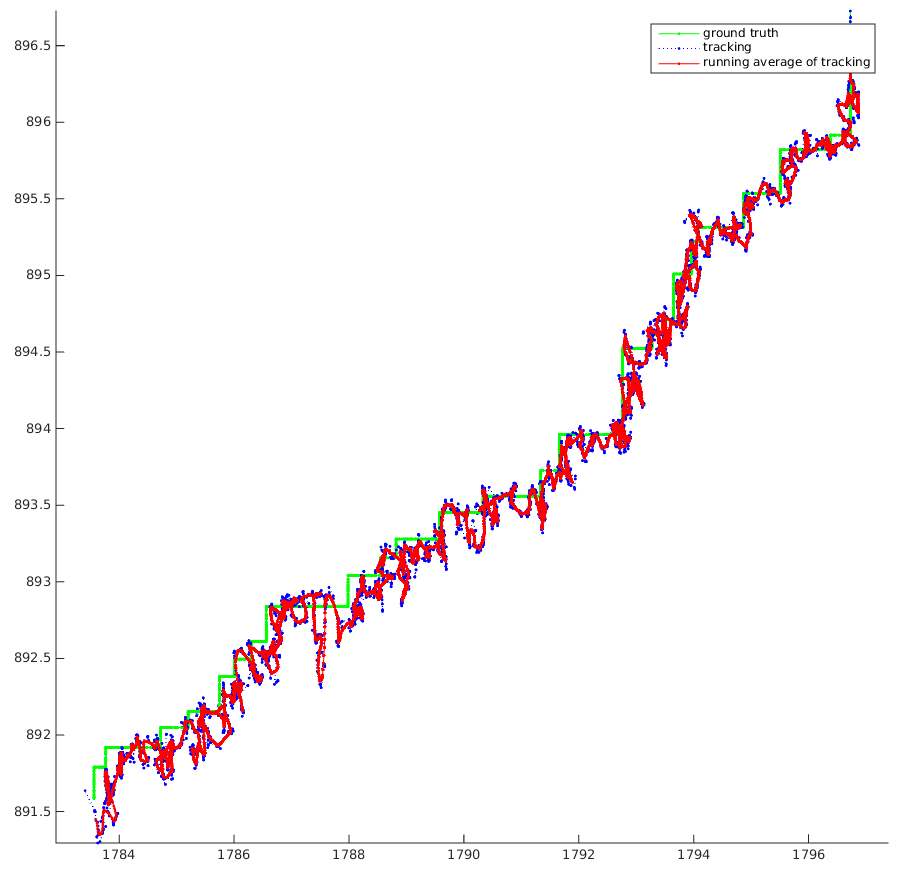
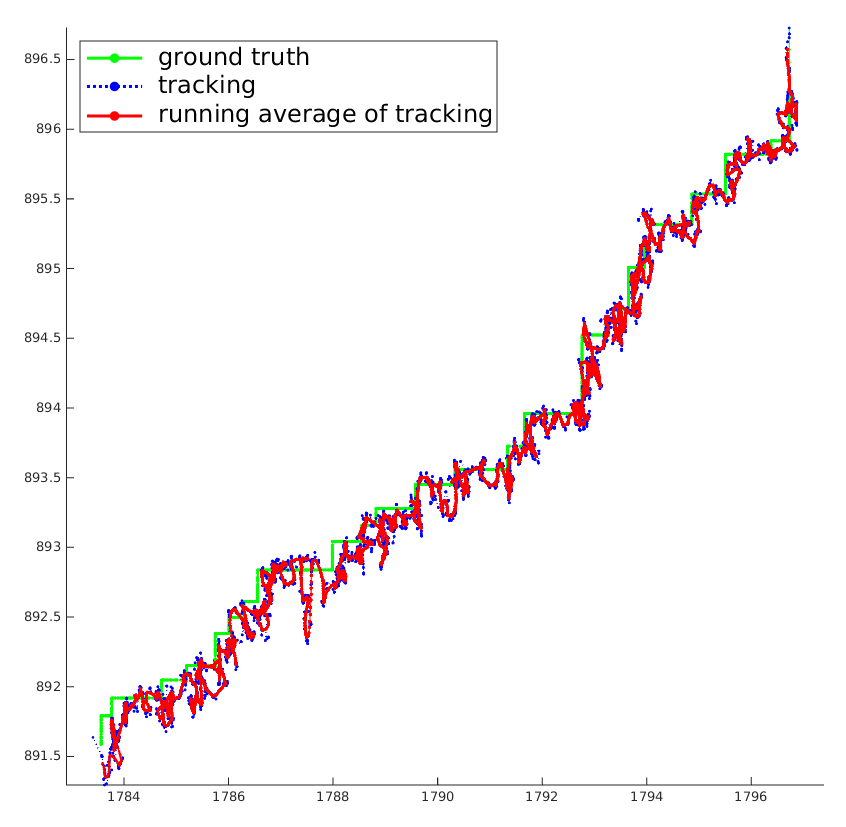
Fixed legend of tracking with ground truth plot.

Changed region(s): [[0.0, 0.0, 0.9835, 0.9976], [0.1844, 0.0302, 0.5839, 0.1814]]

diff --git a/report/report.tex b/report/report.tex
@@ -117,7 +117,7 @@ ETH Zurich\\
 \label{sec:conclusion}
 
 %%%%%%%%% CITATIONS
--------------------------------------------------------------------------
+%-------------------------------------------------------------------------
 {\small
 \bibliographystyle{ieee}
 \bibliography{references}
